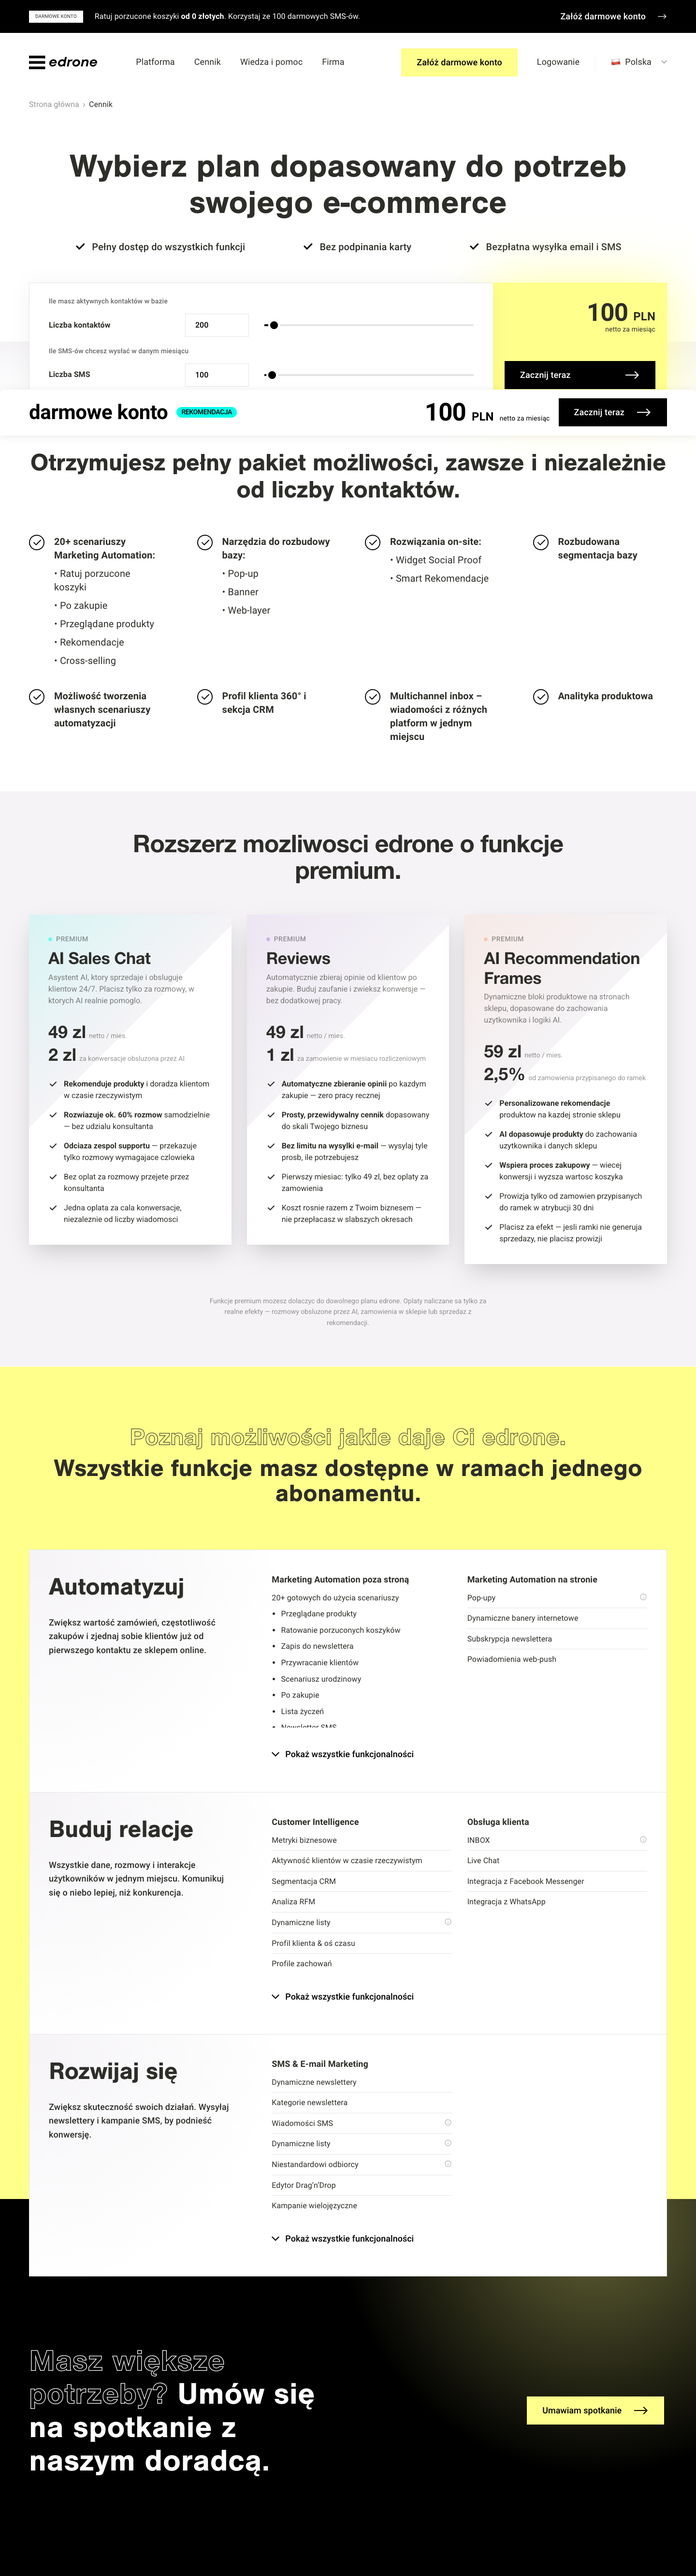
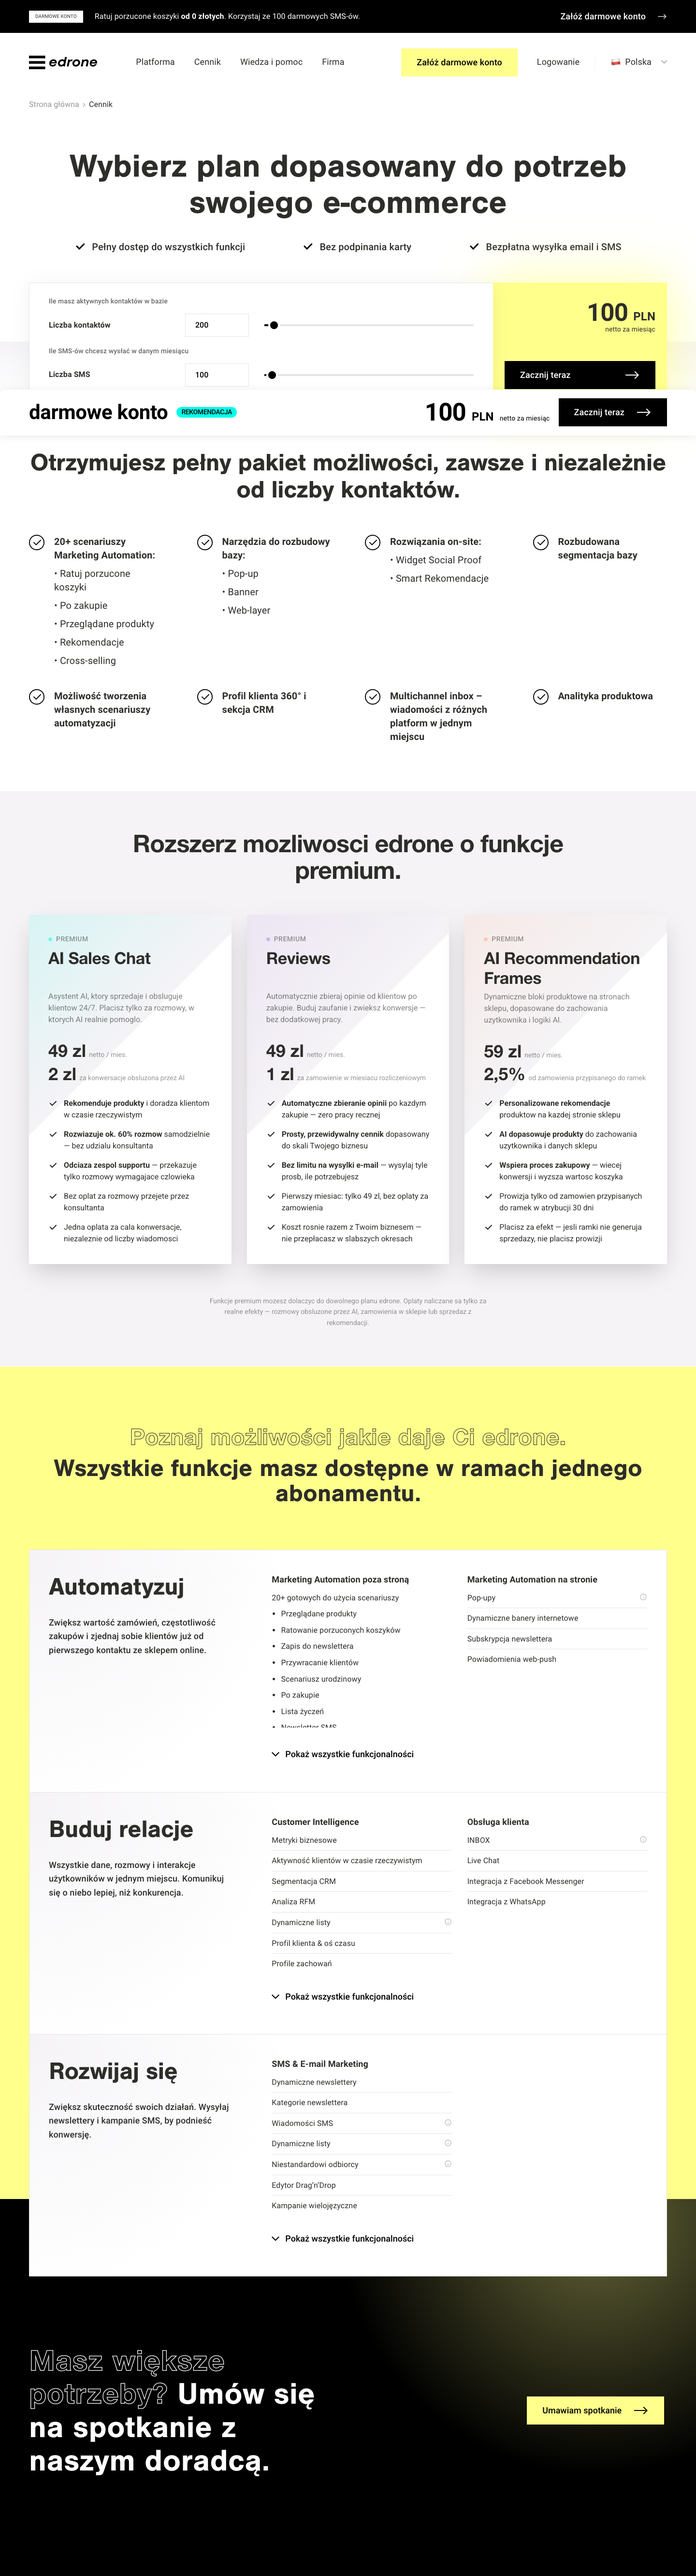
Fix title height alignment — all descriptions now on same line
Set min-height on card-title to accommodate 2-line titles
(AI Recommendation Frames) so descriptions, prices and
checklists align across all three cards.

Changed region(s): [[0.375, 0.3742, 0.625, 0.499], [0.0625, 0.3742, 0.3125, 0.499]]

diff --git a/index.html b/index.html
@@ -461,7 +461,9 @@
             font-weight: 700;
             line-height: 1.18;
             letter-spacing: -0.45px;
-            min-height: 40px;
+            min-height: 80px;
+            display: flex;
+            align-items: flex-start;
         }
 
         /* card-desc styles defined in card-header block above */

diff --git a/mockup.html b/mockup.html
@@ -10,6 +10,6 @@ img { max-width: 100%; height: auto; display: block; }
 </style>
 </head>
 <body>
-<img src="cennik-z-premium.png?v=4" alt="edrone cennik z sekcja premium">
+<img src="cennik-z-premium.png?v=5" alt="edrone cennik z sekcja premium">
 </body>
 </html>
